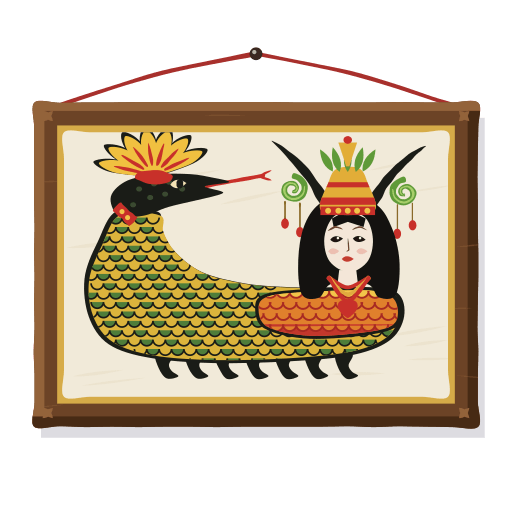
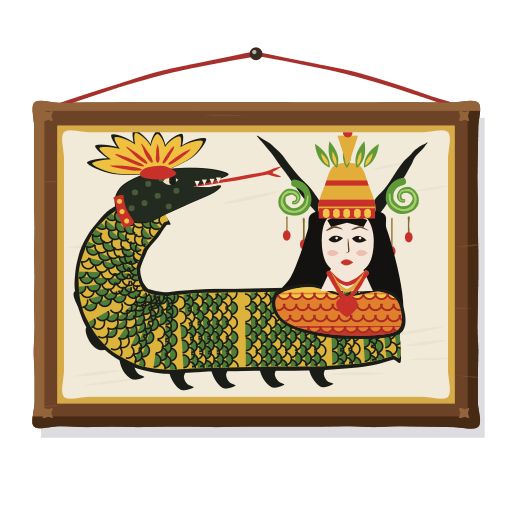
Give Şahmaran the shape of the owner's painting
Her body is now one thick curve, as in the painting: from under the queen it
runs along the bottom on its wave-curled feet and rises in a tall arc at the
left to the serpent's head, which stands level with her crown and faces her,
its tongue reaching across the top. Between the rising neck and the queen the
cream ground is left open. The queen fills the right half, her crown reaching
almost to the frame and her hair falling past her shoulders into her body.

The body is laid along its middle line, each point with its half-width, so its
outline and the rows of scales follow the same curve; the scales are spaced
evenly along it, mostly green with gold among them, as the painting's are.

Claude-Session: https://claude.ai/code/session_011eKY4xnopr5UAa1vaHj4wo

Changed region(s): [[0.125, 0.25, 0.8438, 0.7812]]

diff --git a/shared/src/art/gift-art-lore.ts b/shared/src/art/gift-art-lore.ts
@@ -4,7 +4,7 @@
  * owner's folk painting shows her, framed to hang on a wall and painted afresh rather than traced.
  */
 import { type Drawing, type Pt } from './svg.js';
-import { brush, ellipse, floor, FLOOR, outline, paint, polygon, roundish, runs, scaleAbout, streaks, touch, tremble, within, type Rnd, type Tone } from './gift-paint.js';
+import { along, brush, ellipse, floor, FLOOR, outline, paint, polygon, roundish, runs, scaleAbout, streaks, touch, tremble, within, type Rnd, type Tone } from './gift-paint.js';
 
 // ────────────────────────────────────────────────────────────────────── kawa
 
@@ -162,6 +162,8 @@ export function kawa(dr: Drawing, rnd: Rnd): void {
 // ────────────────────────────────────────────────────────────────── şahmaran
 
 const CREAM = '#f1ead9';
+/** A number to a tenth, as a path writes it. */
+const n1 = (v: number): string => String(Math.round(v * 10) / 10);
 const SCALE_GOLD = '#dcb43c';
 const SCALE_GREEN = '#4e7d3a';
 const NEAR_BLACK = '#1a1c17';
@@ -174,7 +176,8 @@ export function sahmaran(dr: Drawing, rnd: Rnd): void {
   const Y0 = 31;
   const W = 90;
   const H = 62;
-  const A = (x: number, y: number): Pt => [X0 + (x / 410) * W, Y0 + (y / 307) * H];
+  const K = W / 410;
+  const A = (x: number, y: number): Pt => [X0 + x * K, Y0 + (y / 307) * H];
   const shape = (pts: ReadonlyArray<readonly [number, number]>, wobble = 0.15): Pt[] => tremble(pts.map(([x, y]) => A(x, y)), rnd, wobble);
   // the cord it hangs by, its nail, and its shadow on the wall
   paint(dr, brush([[13, 25], [36, 17.6], [60, 12.6]], 0.9, rnd, { start: 1, end: 1, peak: 0.5, count: 6 }) + brush([[107, 25], [84, 17.6], [60, 12.6]], 0.9, rnd, { start: 1, end: 1, peak: 0.5, count: 6 }), '#a8302c');
@@ -197,165 +200,188 @@ export function sahmaran(dr: Drawing, rnd: Rnd): void {
   paint(dr, outline(picture), CREAM);
   within(dr, outline(picture), () => {
     paint(dr, streaks(rnd, [X0, Y0, X0 + W, Y0 + H], 18, -6, 14, 1.6), '#e6dcc4', 0.5);
-    // the row of small feet along her belly, each curling like a wave
+    // her body is one thick curve: up from under the queen, along the bottom and round, rising on the left to the head.
+    // It is laid along its middle line, each point with its half-width, so the outline and the rows of scales follow
+    // the same curve; N is the side away from the bend
+    const spine: Array<[number, number, number]> = [[100, 86, 16], [84, 100, 22], [62, 122, 27], [48, 154, 30], [50, 188, 33], [66, 216, 36], [100, 232, 39], [150, 230, 40], [210, 229, 40], [270, 228, 40], [320, 226, 38], [356, 222, 32]];
+    const SAMPLES = 64;
+    const line = along(spine.map(([x, y]) => A(x, y)), SAMPLES);
+    const widths = along(spine.map(([, , w], i): Pt => [i, w * K]), SAMPLES).map(([, w]) => w);
+    const frames = line.map((p, i) => {
+      const a = line[Math.max(0, i - 1)]!;
+      const b = line[Math.min(SAMPLES, i + 1)]!;
+      const l = Math.hypot(b[0] - a[0], b[1] - a[1]) || 1;
+      const T: Pt = [(b[0] - a[0]) / l, (b[1] - a[1]) / l];
+      return { p, T, N: [-T[1], T[0]] as Pt, w: widths[i]! };
+    });
+    const coarse = frames.filter((_, i) => i % 2 === 0);
+    const offset = (grow: number): Pt[] => [
+      ...coarse.map(({ p, N, w }): Pt => [p[0] + N[0] * (w + grow), p[1] + N[1] * (w + grow)]),
+      ...coarse.slice().reverse().map(({ p, N, w }): Pt => [p[0] - N[0] * (w + grow), p[1] - N[1] * (w + grow)]),
+    ];
+    // the row of small feet under its bottom run, each curling like a wave
     let feet = '';
-    for (let i = 0; i < 7; i++) {
-      const x = 98 + i * 32;
-      feet += outline(shape([[x, 258], [x + 3, 274], [x + 12, 286], [x + 24, 283], [x + 18, 278], [x + 14, 270], [x + 18, 258]], 0.1));
+    for (const i of [22, 27, 32, 37, 42, 47, 52]) {
+      const { p, N, w } = frames[i]!;
+      const [bx, by] = [p[0] + N[0] * w, p[1] + N[1] * w];
+      feet += outline(tremble([[bx - 1.2, by - 0.6], [bx - 0.6, by + 2.6], [bx + 1.6, by + 4.8], [bx + 4.4, by + 4.2], [bx + 3, by + 3.4], [bx + 2.2, by + 1.8], [bx + 2.6, by - 0.6]], rnd, 0.08));
     }
     paint(dr, feet, NEAR_BLACK);
-    // the long serpent body, sweeping left in a great arc from the queen to the head that rises at its far end; laid on
-    // dark, then scaled in green and gold with a dark scallop to every scale
-    const bodyRef: Array<[number, number]> = [[56, 92], [36, 128], [22, 170], [26, 214], [48, 246], [92, 262], [160, 268], [240, 266], [310, 258], [350, 240], [364, 210], [352, 184], [300, 180], [240, 180], [192, 175], [148, 162], [118, 138], [104, 112], [100, 92]];
-    const body = shape(bodyRef);
-    paint(dr, outline(body), NEAR_BLACK);
-    const inner = scaleAbout(body, ...A(190, 190), 0.97, 0.955);
-    paint(dr, outline(inner), SCALE_GOLD);
-    within(dr, outline(inner), () => {
-      const inside = (x: number, y: number): boolean => {
-        let hit = false;
-        for (let i = 0, j = bodyRef.length - 1; i < bodyRef.length; j = i++) {
-          const [xi, yi] = A(...bodyRef[i]!);
-          const [xj, yj] = A(...bodyRef[j]!);
-          if (yi > y !== yj > y && x < ((xj - xi) * (y - yi)) / (yj - yi) + xi) hit = !hit;
-        }
-        return hit;
-      };
-      const r = 1.45;
+    const body = tremble(offset(0), rnd, 0.12);
+    paint(dr, outline(tremble(offset(0.9), rnd, 0.12)), NEAR_BLACK);
+    paint(dr, outline(body), SCALE_GOLD);
+    within(dr, outline(body), () => {
+      // the scales in rows across the body, spaced evenly along it, each one's round edge toward the tail, mostly green
+      // with gold ones among them
+      const r = 1.5;
+      const STEP = 2.5;
+      const run = [0];
+      for (let i = 1; i <= SAMPLES; i++) run.push(run[i - 1]! + Math.hypot(line[i]![0] - line[i - 1]![0], line[i]![1] - line[i - 1]![1]));
       let greens = '';
       let scallops = '';
-      for (let row = 0; row < 22; row++) {
-        const y = Y0 + 9 + row * 2.2;
-        for (let col = 0; col < 32; col++) {
-          const x = X0 + 2 + col * r * 2 + (row % 2) * r;
-          if (!inside(x, y + 0.6)) continue;
-          const arc = `M${x - r} ${y.toFixed(1)}a${r} ${r} 0 0 0 ${2 * r} 0`;
-          if ((col + Math.floor(row / 2)) % 2) greens += `${arc}Z`;
+      for (let d = 1, i = 0; d < run[SAMPLES]!; d += STEP) {
+        while (i < SAMPLES - 1 && run[i + 1]! < d) i++;
+        const { p, T, N, w } = frames[i]!;
+        const rows = Math.max(2, Math.round(w / (r * 1.15)));
+        for (let j = -rows; j <= rows; j++) {
+          const o = (j / rows) * w * 0.98;
+          const slide = (j % 2 ? 0.5 : 0) * STEP;
+          const x0 = p[0] + N[0] * (o - r) + T[0] * slide;
+          const y0 = p[1] + N[1] * (o - r) + T[1] * slide;
+          const arc = `M${n1(x0)} ${n1(y0)}a${r} ${r} 0 0 1 ${n1(N[0] * 2 * r)} ${n1(N[1] * 2 * r)}`;
+          if (rnd() < 0.6) greens += `${arc}Z`;
           scallops += arc;
         }
       }
       paint(dr, greens, SCALE_GREEN);
-      dr.add(`<path d="${scallops}" fill="none" stroke="${NEAR_BLACK}" stroke-width="0.4"/>`);
+      dr.add(`<path d="${scallops}" fill="none" stroke="${NEAR_BLACK}" stroke-width="0.38"/>`);
     });
-    // the cape wrapped round her body below the queen: gold, orange and red, scalloped
-    const cape = shape([[356, 192], [330, 180], [262, 182], [214, 188], [204, 204], [214, 228], [262, 240], [330, 234], [358, 222]]);
-    paint(dr, outline(cape), NEAR_BLACK);
-    const capeIn = scaleAbout(cape, ...A(282, 210), 0.95, 0.88);
-    paint(dr, outline(capeIn), '#e0802c');
-    within(dr, outline(capeIn), () => {
-      // laid in rows of scales like feathers, yellow at the top, then orange edged in red, then red
-      let yellow = '';
-      let red = '';
-      let edges = '';
-      for (let row = 0; row < 4; row++) {
-        for (let i = 0; i < 12; i++) {
-          const [x, y] = A(206 + i * 14 + (row % 2) * 7, 184 + row * 13);
-          const arc = `M${(x - 1.6).toFixed(1)} ${y.toFixed(1)}a1.6 1.6 0 0 0 3.2 0`;
-          if (row === 0) yellow += `${arc}Z`;
-          if (row === 3) red += `${arc}Z`;
-          edges += arc;
-        }
-      }
-      paint(dr, polygon([A(196, 168), A(372, 168), A(372, 186), A(196, 186)]), '#f2c44a');
-      paint(dr, yellow, '#f2c44a');
-      paint(dr, polygon([A(196, 226), A(372, 224), A(372, 252), A(196, 252)]) + red, '#c3372c');
-      dr.add(`<path d="${edges}" fill="none" stroke="#a82a22" stroke-width="0.45"/>`);
-    });
-    // the head at the arc's far end: dark, its mouth open on a red forked tongue that reaches toward the queen, a red
-    // and gold collar at its neck, a gold eye
-    paint(dr, brush([A(150, 63), A(184, 56), A(214, 50)], 0.8, rnd, { start: 1, end: 1, peak: 0.5, count: 6 }) + brush([A(208, 51), A(222, 44)], 0.6, rnd, { count: 4 }) + brush([A(208, 51), A(222, 56)], 0.6, rnd, { count: 4 }), '#c8302a');
-    const head = shape([[50, 74], [68, 56], [100, 49], [134, 49], [160, 53], [176, 58], [150, 63], [170, 70], [140, 79], [112, 87], [84, 97], [58, 97]]);
-    paint(dr, outline(head), NEAR_BLACK);
+    // the head rising at the left, level with the queen's crown and facing her: dark, its jaw open on a red forked
+    // tongue that reaches across toward her, white teeth, a gold eye, a beaded collar where its neck begins
+    paint(dr, brush([A(140, 61), A(184, 54), A(222, 46)], 0.8, rnd, { start: 1, end: 1, peak: 0.5, count: 6 }) + brush([A(216, 47), A(232, 40)], 0.6, rnd, { count: 4 }) + brush([A(216, 47), A(232, 52)], 0.6, rnd, { count: 4 }), '#c8302a');
+    const head = shape([[56, 82], [62, 64], [82, 51], [108, 44], [134, 42], [156, 44], [173, 49], [166, 54], [150, 59], [137, 63], [152, 64], [166, 62], [158, 70], [134, 82], [110, 94], [88, 104], [66, 100]]);
+    paint(dr, outline(scaleAbout(head, ...A(112, 72), 1.04)), NEAR_BLACK);
+    paint(dr, outline(head), '#232a20');
     within(dr, outline(head), () => {
       let dots = '';
-      for (const [x, y] of [[80, 66], [96, 60], [112, 58], [92, 76], [108, 72], [126, 66], [74, 84]] as const) {
-        const [cx, cy] = A(x, y);
-        dots += ellipse(cx, cy, 0.7, 0.55);
-      }
-      paint(dr, dots, '#3c4a32');
+      for (const [x, y] of [[76, 70], [90, 60], [104, 54], [86, 82], [100, 74], [120, 68], [72, 88], [112, 86]] as const) dots += ellipse(...A(x, y), 0.65, 0.5);
+      paint(dr, dots, '#4a5a3a');
     });
-    const [ex, ey] = A(122, 60);
-    paint(dr, touch(ex, ey, 3.8, 2, -6), '#f3e3b4');
+    let teeth = '';
+    for (const x of [142, 150, 158, 165]) {
+      const [tx, ty] = A(x, 57 - (x - 140) * 0.18);
+      teeth += polygon([[tx - 0.6, ty], [tx + 0.6, ty], [tx, ty + 1.3]]);
+    }
+    paint(dr, teeth, '#f4eee0');
+    const [ex, ey] = A(114, 56);
+    paint(dr, touch(ex, ey, 3.6, 1.9, -8), '#f3e3b4');
     paint(dr, ellipse(ex + 0.4, ey, 0.75, 0.8), NEAR_BLACK);
-    paint(dr, brush([A(56, 86), A(66, 96), A(74, 104)], 2.6, rnd, { start: 1, end: 1, peak: 0.5, count: 6 }), '#c8302a');
-    paint(dr, ellipse(...A(62, 92), 0.6, 0.6) + ellipse(...A(68, 99), 0.6, 0.6), '#f2c44a');
-    // its own crown, a fan of gold petals striped with red, rising from the top of its head
+    paint(dr, brush([A(58, 74), A(62, 92), A(70, 108)], 2.4, rnd, { start: 1, end: 1, peak: 0.5, count: 6 }), '#c8302a');
+    paint(dr, ellipse(...A(59, 80), 0.6, 0.6) + ellipse(...A(62, 92), 0.6, 0.6) + ellipse(...A(67, 103), 0.6, 0.6), '#f2c44a');
+    // its own crown: a fan of gold petals striped with red, rising from the top of its head almost to the frame
     let fan = '';
     let edge = '';
     let stripes = '';
-    const base = A(96, 50);
-    for (let i = 0; i < 7; i++) {
-      const a = ((196 + i * 22) * Math.PI) / 180;
-      const tip: Pt = [base[0] + Math.cos(a) * 13.4, base[1] + Math.sin(a) * 10.6];
-      const petal = tremble([base, [base[0] + Math.cos(a - 0.2) * 9, base[1] + Math.sin(a - 0.2) * 7.4], tip, [base[0] + Math.cos(a + 0.2) * 9, base[1] + Math.sin(a + 0.2) * 7.4]], rnd, 0.1);
-      edge += outline(scaleAbout(petal, base[0], base[1], 1.1));
+    const base = A(100, 46);
+    for (const [x, y] of [[30, 36], [38, 18], [54, 6], [76, 1], [100, 2], [124, 5], [148, 10]] as const) {
+      const tip = A(x, y);
+      const [dx, dy] = [tip[0] - base[0], tip[1] - base[1]];
+      const l = Math.hypot(dx, dy);
+      const [nx, ny] = [-dy / l, dx / l];
+      const petal = tremble([base, [base[0] + dx * 0.6 + nx * 1.7, base[1] + dy * 0.6 + ny * 1.7], tip, [base[0] + dx * 0.6 - nx * 1.7, base[1] + dy * 0.6 - ny * 1.7]], rnd, 0.08);
+      edge += outline(scaleAbout(petal, base[0], base[1], 1.08));
       fan += outline(petal);
-      stripes += brush([[base[0] + Math.cos(a) * 3, base[1] + Math.sin(a) * 2.4], [base[0] + Math.cos(a) * 9.6, base[1] + Math.sin(a) * 7.6]], 0.9, rnd, { start: 0.4, end: 0.2, count: 4 });
+      stripes += brush([[base[0] + dx * 0.25, base[1] + dy * 0.25], [base[0] + dx * 0.72, base[1] + dy * 0.72]], 0.8, rnd, { start: 0.4, end: 0.2, count: 4 });
     }
     paint(dr, edge, NEAR_BLACK);
     paint(dr, fan, '#f0c040');
     paint(dr, stripes, '#c8302a');
-    paint(dr, outline(roundish(base[0], base[1] + 0.4, 4.4, 1.6, rnd, { count: 10 })), '#c8302a');
-    // the queen: long black hair framing her face and falling behind it, her horns curving up from her crown with green
-    // spirals and hanging drops, the tall crown with its leaves, her layered necklace and its heart
-    const horn = (pts: Array<[number, number]>): void => paint(dr, brush(pts.map(([x, y]) => A(x, y)), 2.4, rnd, { start: 1, end: 0.05, peak: 0.05, count: 12 }), NEAR_BLACK);
-    horn([[282, 88], [262, 52], [238, 24], [222, 10]]);
-    horn([[326, 88], [346, 54], [370, 28], [386, 16]]);
+    paint(dr, outline(roundish(base[0], base[1] + 0.3, 4.2, 1.6, rnd, { count: 10 })), '#c8302a');
+    // the queen, large on the right: horns curving up from her crown with green spirals and hanging drops, her long
+    // black hair falling past her shoulders into her body, her face, her layered necklace and its heart, the cape of
+    // scales at her shoulders where her body begins, and the tall crown
+    const horn = (pts: Array<[number, number]>): void => paint(dr, brush(pts.map(([x, y]) => A(x, y)), 2.6, rnd, { start: 1, end: 0.05, peak: 0.05, count: 12 }), NEAR_BLACK);
+    horn([[278, 96], [250, 58], [224, 22], [206, 4]]);
+    horn([[328, 96], [352, 60], [372, 28], [388, 12]]);
     const spiral = (cx: number, cy: number, s: number): void => {
       const pts: Pt[] = [];
       for (let i = 0; i <= 14; i++) {
         const a = (i / 14) * Math.PI * 3 * s - Math.PI / 2;
-        const r = 3.3 * (1 - i / 17);
+        const r = 4.2 * (1 - i / 17);
         pts.push([A(cx, cy)[0] + Math.cos(a) * r, A(cx, cy)[1] + Math.sin(a) * r * 0.95]);
       }
-      paint(dr, brush(pts, 1.5, rnd, { start: 0.8, end: 0.4, peak: 0.2, count: 18 }), '#5f9a38');
-      paint(dr, brush(pts.slice(2), 0.5, rnd, { start: 0.6, end: 0.2, count: 14 }), '#a8cf6a');
+      paint(dr, brush(pts, 1.8, rnd, { start: 0.8, end: 0.4, peak: 0.2, count: 18 }), '#5f9a38');
+      paint(dr, brush(pts.slice(2), 0.6, rnd, { start: 0.6, end: 0.2, count: 14 }), '#a8cf6a');
     };
-    spiral(244, 66, 1);
-    spiral(364, 70, -1);
+    spiral(244, 78, 1);
+    spiral(364, 76, -1);
     let drops = '';
     let beads = '';
-    for (const [x, y, l] of [[236, 80, 22], [252, 82, 30], [356, 84, 30], [372, 82, 22]] as const) {
+    for (const [x, y, l] of [[238, 98, 18], [256, 100, 26], [350, 100, 34], [368, 98, 20]] as const) {
       drops += brush([A(x, y), A(x, y + l)], 0.35, rnd, { start: 1, end: 1, count: 4 });
       beads += ellipse(...A(x, y + l + 4), 0.9, 1.2);
     }
     paint(dr, drops, '#8a6a2a');
     paint(dr, beads, '#c8302a');
-    paint(dr, outline(shape([[300, 70], [272, 84], [256, 110], [250, 148], [254, 188], [272, 192], [286, 176], [324, 176], [336, 192], [354, 188], [358, 148], [350, 110], [334, 84]])), '#141210');
-    const face = shape([[303, 92], [322, 100], [330, 124], [324, 150], [304, 162], [284, 150], [278, 124], [286, 100]]);
+    paint(dr, outline(shape([[270, 92], [260, 114], [252, 142], [242, 168], [228, 190], [254, 194], [276, 184], [328, 184], [346, 204], [354, 232], [362, 212], [360, 178], [352, 140], [344, 112], [336, 92]])), '#141210');
+    const cape = shape([[226, 186], [262, 176], [300, 188], [340, 182], [361, 198], [358, 234], [300, 240], [250, 230], [226, 212]]);
+    paint(dr, outline(cape), NEAR_BLACK);
+    const capeIn = scaleAbout(cape, ...A(292, 208), 0.95, 0.88);
+    paint(dr, outline(capeIn), '#e0802c');
+    within(dr, outline(capeIn), () => {
+      let yellow = '';
+      let red = '';
+      let edges = '';
+      for (let row = 0; row < 4; row++) {
+        for (let i = 0; i < 12; i++) {
+          const [x, y] = A(222 + i * 13 + (row % 2) * 6.5, 186 + row * 13);
+          const arc = `M${(x - 1.5).toFixed(1)} ${y.toFixed(1)}a1.5 1.5 0 0 0 3 0`;
+          if (row === 0) yellow += `${arc}Z`;
+          if (row === 3) red += `${arc}Z`;
+          edges += arc;
+        }
+      }
+      paint(dr, polygon([A(220, 170), A(366, 170), A(366, 188), A(220, 188)]) + yellow, '#f2c44a');
+      paint(dr, polygon([A(220, 228), A(366, 226), A(366, 250), A(220, 250)]) + red, '#c3372c');
+      dr.add(`<path d="${edges}" fill="none" stroke="#a82a22" stroke-width="0.45"/>`);
+    });
+    paint(dr, polygon(shape([[286, 156], [318, 156], [330, 184], [274, 184]], 0.05)), '#f4e6d8');
+    const face = shape([[302, 92], [324, 100], [331, 126], [325, 154], [303, 168], [281, 154], [275, 126], [281, 100]]);
     paint(dr, outline(face), '#f4e6d8');
-    paint(dr, polygon(shape([[286, 100], [303, 90], [322, 100], [320, 110], [303, 104], [288, 110]], 0.05)), '#141210');
-    const [lx, ly] = A(291, 124);
+    paint(dr, polygon(shape([[281, 102], [302, 92], [324, 102], [320, 110], [302, 105], [285, 110]], 0.05)), '#141210');
+    const [lx, ly] = A(290, 124);
     const [rx, ry] = A(315, 124);
-    paint(dr, touch(lx, ly, 3, 1.4, -6) + touch(rx, ry, 3, 1.4, 6), '#1e1410');
-    paint(dr, ellipse(lx + 0.3, ly - 0.2, 0.3, 0.3) + ellipse(rx + 0.3, ry - 0.2, 0.3, 0.3), '#fbf3e4');
-    paint(dr, brush([A(282, 114), A(290, 110), A(298, 113)], 0.4, rnd, { count: 4 }) + brush([A(308, 113), A(316, 110), A(324, 114)], 0.4, rnd, { count: 4 }) + brush([A(303, 124), A(304, 136), A(301, 138)], 0.3, rnd, { count: 4 }), '#6a4030');
-    paint(dr, touch(...A(303, 147), 2.8, 1.3, 0), '#c23a36');
-    paint(dr, touch(...A(288, 138), 2.6, 1.4, 0) + touch(...A(318, 138), 2.6, 1.4, 0), '#e8998a', 0.5);
-    paint(dr, polygon(shape([[294, 160], [312, 160], [314, 176], [292, 176]], 0.05)), '#f4e6d8');
-    for (const [sag, colour] of [[180, '#c8302a'], [188, '#e0aa3e'], [196, '#c8302a']] as const) {
-      paint(dr, brush([A(282, 168), A(303, sag), A(326, 168)], 0.9, rnd, { start: 1, end: 1, peak: 0.5, count: 8 }), colour);
+    paint(dr, touch(lx, ly, 3.4, 1.6, -6) + touch(rx, ry, 3.4, 1.6, 6), '#1e1410');
+    paint(dr, ellipse(lx + 0.3, ly - 0.2, 0.32, 0.32) + ellipse(rx + 0.3, ry - 0.2, 0.32, 0.32), '#fbf3e4');
+    paint(dr, brush([A(280, 114), A(289, 110), A(298, 113)], 0.42, rnd, { count: 4 }) + brush([A(307, 113), A(316, 110), A(325, 114)], 0.42, rnd, { count: 4 }) + brush([A(303, 124), A(304, 138), A(300, 140)], 0.32, rnd, { count: 4 }), '#6a4030');
+    paint(dr, touch(...A(302, 151), 3, 1.4, 0), '#c23a36');
+    paint(dr, touch(...A(287, 140), 2.8, 1.5, 0) + touch(...A(318, 140), 2.8, 1.5, 0), '#e8998a', 0.5);
+    for (const [sag, colour] of [[176, '#c8302a'], [184, '#e0aa3e'], [192, '#c8302a']] as const) {
+      paint(dr, brush([A(282, 162), A(302, sag), A(324, 162)], 0.9, rnd, { start: 1, end: 1, peak: 0.5, count: 8 }), colour);
     }
-    const [hxp, hyp] = A(303, 206);
-    paint(dr, `M${hxp.toFixed(1)} ${(hyp + 2).toFixed(1)}c-2.6 -1.6 -3 -3.6 -1.4 -4.2c0.8 -0.3 1.2 0.2 1.4 0.6c0.2 -0.4 0.6 -0.9 1.4 -0.6c1.6 0.6 1.2 2.6 -1.4 4.2Z`, '#c8302a');
-    // the crown, tall: a band of red and gold on her brow, a gold body banded with red, green leaves round its top, a
-    // gold cup at its peak
-    const crown = shape([[276, 92], [282, 58], [292, 42], [314, 42], [324, 58], [330, 92]]);
+    const [hxp, hyp] = A(302, 204);
+    paint(dr, `M${hxp.toFixed(1)} ${(hyp + 2.2).toFixed(1)}c-2.8 -1.7 -3.2 -3.9 -1.5 -4.5c0.9 -0.3 1.3 0.2 1.5 0.6c0.2 -0.4 0.6 -0.9 1.5 -0.6c1.7 0.6 1.3 2.8 -1.5 4.5Z`, '#c8302a');
+    // the crown, tall, reaching almost to the frame: a band of red and gold over her brow, a gold body banded with red,
+    // green and gold leaves round its top, a gold cup at its peak
+    const crown = shape([[274, 96], [280, 58], [290, 38], [314, 38], [324, 58], [330, 96]]);
     paint(dr, outline(crown), '#e2ad38');
-    within(dr, outline(crown), () => paint(dr, polygon([A(270, 76), A(336, 76), A(336, 84), A(270, 84)]) + polygon([A(270, 58), A(336, 58), A(336, 64), A(270, 64)]), '#c8302a'));
-    paint(dr, polygon([A(274, 86), A(332, 86), A(332, 96), A(274, 96)]), '#c8302a');
+    within(dr, outline(crown), () => paint(dr, polygon([A(268, 78), A(336, 78), A(336, 86), A(268, 86)]) + polygon([A(268, 56), A(336, 56), A(336, 62), A(268, 62)]), '#c8302a'));
+    paint(dr, polygon([A(272, 88), A(332, 88), A(332, 100), A(272, 100)]), '#c8302a');
     let gems = '';
-    for (const x of [282, 293, 303, 313, 324]) gems += ellipse(...A(x, 91), 0.7, 0.7);
+    for (const x of [280, 291, 302, 313, 324]) gems += ellipse(...A(x, 94), 0.75, 0.75);
     paint(dr, gems, '#f2c44a');
     let leaves = '';
-    for (const [x, deg] of [[286, -120], [294, -105], [303, -90], [312, -75], [320, -60]] as const) {
+    let golds = '';
+    for (const [x, deg] of [[283, -122], [291, -106], [302, -90], [313, -74], [321, -58]] as const) {
       const a = (deg * Math.PI) / 180;
-      const [bx, by] = A(x, 44);
-      leaves += touch(bx + Math.cos(a) * 2.6, by + Math.sin(a) * 2.6, 6, 1.8, deg);
+      const [bx, by] = A(x, 40);
+      leaves += touch(bx + Math.cos(a) * 3, by + Math.sin(a) * 3, 6.6, 1.9, deg);
+      golds += touch(bx + Math.cos(a) * 2, by + Math.sin(a) * 2, 3.4, 0.8, deg);
     }
     paint(dr, leaves, '#5f9a38');
-    const [cx, cy] = A(303, 22);
-    paint(dr, polygon([[cx - 2.2, cy - 2], [cx + 2.2, cy - 2], [cx + 1, cy + 1.6], [cx + 0.4, cy + 3.6], [cx - 0.4, cy + 3.6], [cx - 1, cy + 1.6]]), '#e2ad38');
-    paint(dr, ellipse(cx, cy - 2.6, 1, 0.9), '#c8302a');
+    paint(dr, golds, '#f2c44a');
+    const [cx, cy] = A(303, 16);
+    paint(dr, polygon([[cx - 2.4, cy - 2.4], [cx + 2.4, cy - 2.4], [cx + 1.1, cy + 1.6], [cx + 0.4, cy + 4], [cx - 0.4, cy + 4], [cx - 1.1, cy + 1.6]]), '#e2ad38');
+    paint(dr, ellipse(cx, cy - 3, 1.1, 1), '#c8302a');
   });
 }
